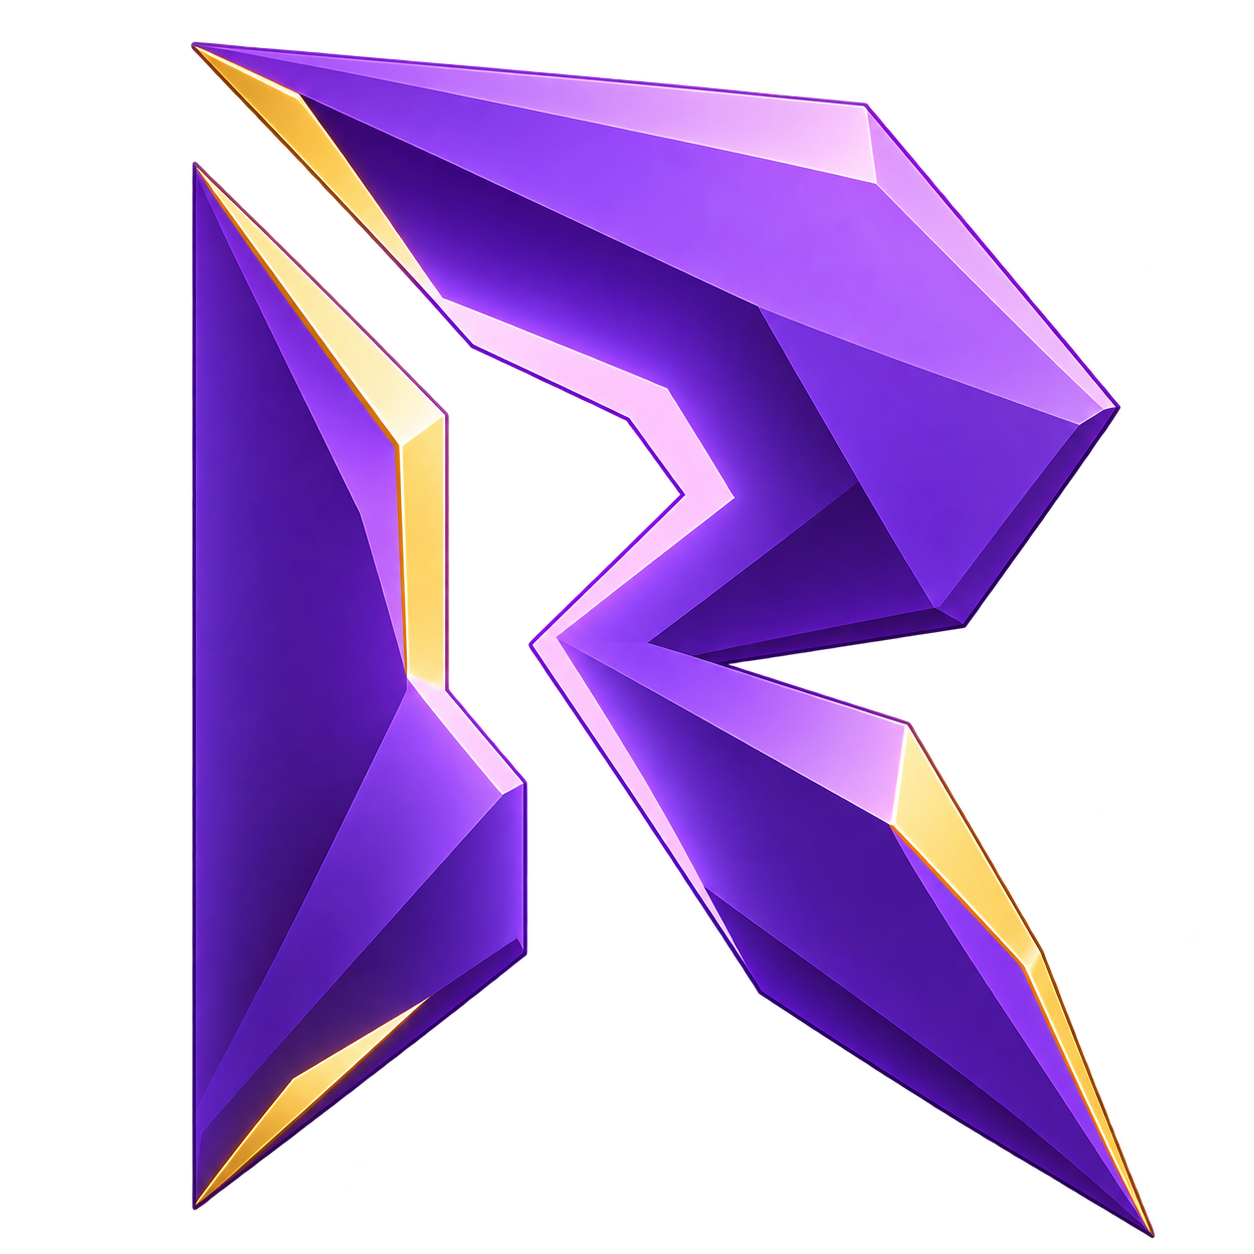
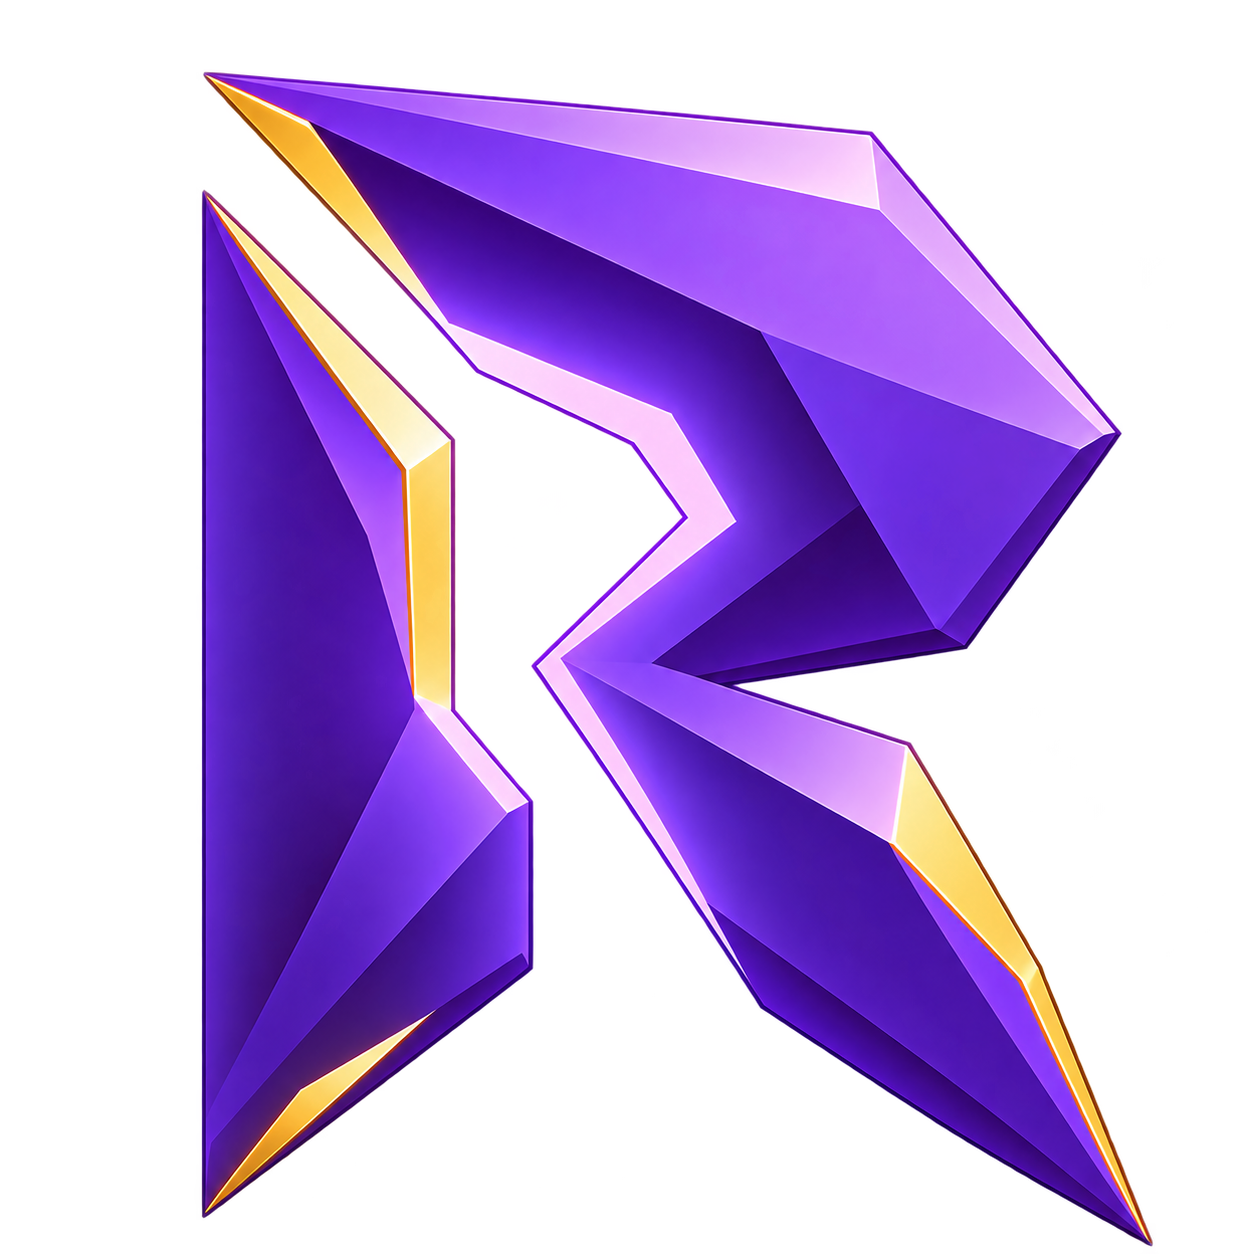
feat: edit notes inline and cancel drafts independently

diff --git a/src/renderer/src/App.tsx b/src/renderer/src/App.tsx
@@ -247,6 +247,7 @@ export default function App() {
   const [editing, setEditing] = useState<Note | null>(null),
     [deleting, setDeleting] = useState<number | null>(null)
   const [info, setInfo] = useState<{ databasePath: string; catalogVersion: string } | null>(null)
+  const [pendingNoteEdit, setPendingNoteEdit] = useState<Note | null>(null)
   const [pendingNavigation, setPendingNavigation] = useState<(() => void) | null>(null)
   const generation = useRef(0),
     editor = useRef<HTMLTextAreaElement>(null)
@@ -443,7 +444,14 @@ export default function App() {
   const pageSaveSupported = page === 'notebook' || (page === 'champions' && championDetailOpen)
   const pageDirty = noteDirty || counterDirty || (page === 'notebook' && loadoutDirty)
   async function savePage(): Promise<boolean> {
-    if (!pageSaveSupported || !ready || busy || pendingNavigation || pageSaveInFlight.current)
+    if (
+      !pageSaveSupported ||
+      !ready ||
+      busy ||
+      pendingNavigation ||
+      pendingNoteEdit ||
+      pageSaveInFlight.current
+    )
       return false
     const loadout = page === 'notebook' ? loadoutEditor.current?.draft() : undefined
     if (!noteDirty && !counterDirty && !loadout) return true
@@ -502,13 +510,17 @@ export default function App() {
     window.addEventListener('keydown', onKey)
     return () => window.removeEventListener('keydown', onKey)
   })
+  function startNoteEdit(note: Note) {
+    setDeleting(null)
+    setEditing(note)
+    setBody(note.body)
+    setCategory(note.category)
+    setTimeout(() => editor.current?.focus({ preventScroll: true }), 0)
+  }
   function edit(note: Note) {
-    navigate(() => {
-      setEditing(note)
-      setBody(note.body)
-      setCategory(note.category)
-      setTimeout(() => editor.current?.focus(), 0)
-    })
+    if (busy || editing?.id === note.id) return
+    if (noteDirty) setPendingNoteEdit(note)
+    else startNoteEdit(note)
   }
   async function changePool(operation: () => Promise<Result<PoolEntry[]>>) {
     if (busy) return
@@ -524,6 +536,69 @@ export default function App() {
   }
   const detailMatchups =
     championData?.matchups.filter((m) => detailRole === 'ALL' || m.role === detailRole) ?? []
+
+  const noteEditor = (
+    <form
+      className="note-editor"
+      onSubmit={(e) => {
+        e.preventDefault()
+        void savePage()
+      }}
+    >
+      <div className="editor-heading">
+        <label htmlFor="note-body">{editing ? 'メモを編集' : '新しいメモ'}</label>
+        <span>{body.length.toLocaleString()} / 10,000</span>
+      </div>
+      <textarea
+        id="note-body"
+        ref={editor}
+        value={body}
+        disabled={!ready || busy}
+        maxLength={10000}
+        placeholder={
+          page === 'champions'
+            ? '例：基本コンボ、スキルの使い方、練習したい操作。'
+            : '例：相手が主要スキルを使った後にトレードする。'
+        }
+        onChange={(e) => setBody(e.target.value)}
+        onKeyDown={(e) => {
+          if (!e.nativeEvent.isComposing && (e.ctrlKey || e.metaKey) && e.key === 'Enter') {
+            e.preventDefault()
+            e.currentTarget.form?.requestSubmit()
+          }
+        }}
+      />
+      <div className="editor-toolbar">
+        <select
+          aria-label="メモのカテゴリー"
+          value={category}
+          disabled={busy}
+          onChange={(e) => setCategory(e.target.value as Category)}
+        >
+          {CATEGORIES.map((c) => (
+            <option key={c}>{c}</option>
+          ))}
+        </select>
+        <span className="shortcut">Ctrl + Enter / Ctrl + S でページを保存</span>
+        {(editing || body.length > 0 || category !== 'General') && (
+          <button
+            type="button"
+            disabled={busy}
+            onClick={() => {
+              resetEditor()
+              setStatus('メモ入力をキャンセルしました')
+              setPageSaveStatus('')
+            }}
+          >
+            キャンセル
+          </button>
+        )}
+        <button className="primary" type="submit" disabled={!ready || busy || !body.trim()}>
+          {busy ? '保存中…' : editing ? '変更を保存' : '＋ メモを保存'}
+        </button>
+      </div>
+    </form>
+  )
 
   const notesPanel = (
     <section className="notes-panel panel" id="personal-notes">
@@ -602,7 +677,7 @@ export default function App() {
                   </button>
                 </div>
               </div>
-              <p className="note-body">{note.body}</p>
+              {editing?.id === note.id ? noteEditor : <p className="note-body">{note.body}</p>}
               {deleting === note.id && (
                 <div className="delete-confirm">
                   <span>このメモを削除しますか？</span>
@@ -631,58 +706,7 @@ export default function App() {
           ))
         )}
       </div>
-      <form
-        className="note-editor"
-        onSubmit={(e) => {
-          e.preventDefault()
-          void savePage()
-        }}
-      >
-        <div className="editor-heading">
-          <label htmlFor="note-body">{editing ? 'メモを編集' : '新しいメモ'}</label>
-          <span>{body.length.toLocaleString()} / 10,000</span>
-        </div>
-        <textarea
-          id="note-body"
-          ref={editor}
-          value={body}
-          disabled={!ready || busy}
-          maxLength={10000}
-          placeholder={
-            page === 'champions'
-              ? '例：基本コンボ、スキルの使い方、練習したい操作。'
-              : '例：相手が主要スキルを使った後にトレードする。'
-          }
-          onChange={(e) => setBody(e.target.value)}
-          onKeyDown={(e) => {
-            if (!e.nativeEvent.isComposing && (e.ctrlKey || e.metaKey) && e.key === 'Enter') {
-              e.preventDefault()
-              e.currentTarget.form?.requestSubmit()
-            }
-          }}
-        />
-        <div className="editor-toolbar">
-          <select
-            aria-label="メモのカテゴリー"
-            value={category}
-            disabled={busy}
-            onChange={(e) => setCategory(e.target.value as Category)}
-          >
-            {CATEGORIES.map((c) => (
-              <option key={c}>{c}</option>
-            ))}
-          </select>
-          <span className="shortcut">Ctrl + Enter / Ctrl + S でページを保存</span>
-          {editing && (
-            <button type="button" disabled={busy} onClick={() => navigate(() => {})}>
-              キャンセル
-            </button>
-          )}
-          <button className="primary" type="submit" disabled={!ready || busy || !body.trim()}>
-            {busy ? '保存中…' : editing ? '変更を保存' : '＋ メモを保存'}
-          </button>
-        </div>
-      </form>
+      {!editing && noteEditor}
     </section>
   )
 
@@ -1289,6 +1313,33 @@ export default function App() {
           )}
         </main>
       </div>
+      {pendingNoteEdit && (
+        <div className="modal-backdrop">
+          <div
+            className="modal panel"
+            role="alertdialog"
+            aria-modal="true"
+            aria-labelledby="note-switch-title"
+          >
+            <h2 id="note-switch-title">入力中のメモを破棄しますか？</h2>
+            <p>メモの入力だけを破棄して、選んだメモを編集します。</p>
+            <div>
+              <button autoFocus onClick={() => setPendingNoteEdit(null)}>
+                入力を続ける
+              </button>
+              <button
+                className="danger"
+                onClick={() => {
+                  startNoteEdit(pendingNoteEdit)
+                  setPendingNoteEdit(null)
+                }}
+              >
+                メモを破棄して編集
+              </button>
+            </div>
+          </div>
+        </div>
+      )}
       {pendingNavigation && (
         <div className="modal-backdrop">
           <div

diff --git a/tests/inline-notes.e2e.ts b/tests/inline-notes.e2e.ts
@@ -1,0 +1,80 @@
+import { test, expect, _electron as electron } from '@playwright/test'
+import { mkdirSync, mkdtempSync } from 'node:fs'
+import { resolve, join } from 'node:path'
+import { DatabaseSync } from 'node:sqlite'
+
+test('notes edit in place and cancel only their own draft on matchup and champion pages', async () => {
+  mkdirSync('.test-data', { recursive: true })
+  const folder = mkdtempSync(resolve('.test-data', 'inline-notes-'))
+  const env: Record<string, string> = Object.fromEntries(
+    Object.entries({ ...process.env, NOTEBOOK_TEST_DATA_DIR: folder }).filter(
+      (entry): entry is [string, string] => entry[1] !== undefined,
+    ),
+  )
+  delete env.ELECTRON_RUN_AS_NODE
+  const app = await electron.launch({ args: [resolve('.')], env })
+  try {
+    const page = await app.firstWindow()
+    await page.context().setOffline(true)
+    for (const scope of ['matchup', 'champion']) {
+      if (scope === 'champion') {
+        await page.getByRole('button', { name: /Champions/ }).click()
+        await page.getByRole('button', { name: 'Dariusの詳細を開く', exact: true }).click()
+      }
+      const notes = page.locator('#personal-notes')
+      const otherDraft =
+        scope === 'matchup'
+          ? page.getByLabel('ビルドの補足')
+          : page.getByLabel('Darius対策の内容', { exact: true })
+      await notes.getByLabel('新しいメモ', { exact: true }).fill('元のメモ')
+      await notes.getByRole('button', { name: '＋ メモを保存', exact: true }).click()
+      const card = notes.locator('.note-card').first()
+      await expect(card.locator('.note-body')).toHaveText('元のメモ')
+      await otherDraft.fill('他の欄の未保存入力')
+      await notes.getByLabel('新しいメモ', { exact: true }).fill('キャンセルする新規メモ')
+      await notes.getByRole('button', { name: 'キャンセル', exact: true }).click()
+      await expect(notes.getByLabel('新しいメモ', { exact: true })).toHaveValue('')
+      await expect(otherDraft).toHaveValue('他の欄の未保存入力')
+      await card.getByRole('button', { name: /メモ\d+を編集/ }).click()
+      await expect(page.getByRole('alertdialog')).toHaveCount(0)
+      await expect(card.getByLabel('メモを編集', { exact: true })).toHaveValue('元のメモ')
+      await expect(notes.locator(':scope > .note-editor')).toHaveCount(0)
+      await card.getByLabel('メモを編集', { exact: true }).fill('取り消す編集')
+      await card.getByRole('button', { name: 'キャンセル', exact: true }).click()
+      await expect(card.locator('.note-body')).toHaveText('元のメモ')
+      await expect(otherDraft).toHaveValue('他の欄の未保存入力')
+      await notes.getByLabel('新しいメモ', { exact: true }).fill('切り替え前の入力')
+      await card.getByRole('button', { name: /メモ\d+を編集/ }).click()
+      await page.getByRole('button', { name: '入力を続ける', exact: true }).click()
+      await expect(notes.getByLabel('新しいメモ', { exact: true })).toHaveValue('切り替え前の入力')
+      await card.getByRole('button', { name: /メモ\d+を編集/ }).click()
+      await page.getByRole('button', { name: 'メモを破棄して編集', exact: true }).click()
+      await expect(otherDraft).toHaveValue('他の欄の未保存入力')
+      await card.getByLabel('メモを編集', { exact: true }).fill('その場で編集して保存')
+      const lock = new DatabaseSync(join(folder, 'notebook.sqlite'))
+      lock.exec('BEGIN IMMEDIATE')
+      try {
+        await card.getByRole('button', { name: '変更を保存', exact: true }).click()
+        await expect(page.getByRole('alert')).toBeVisible({ timeout: 10000 })
+        await expect(card.getByLabel('メモを編集', { exact: true })).toHaveValue(
+          'その場で編集して保存',
+        )
+      } finally {
+        lock.exec('ROLLBACK')
+        lock.close()
+      }
+      await page.keyboard.press('Control+s')
+      await expect(card.locator('.note-body')).toHaveText('その場で編集して保存')
+      await expect(notes.locator('.note-card')).toHaveCount(1)
+      await expect(
+        page.getByRole('button', { name: 'ページの変更を保存', exact: true }),
+      ).toBeDisabled()
+      await card.getByRole('button', { name: /メモ\d+を編集/ }).click()
+      await card.scrollIntoViewIfNeeded()
+      await page.screenshot({ path: `test-results/inline-${scope}.png` })
+      await card.getByRole('button', { name: 'キャンセル', exact: true }).click()
+    }
+  } finally {
+    await app.close()
+  }
+})

diff --git a/src/renderer/src/styles.css b/src/renderer/src/styles.css
@@ -804,6 +804,12 @@ h1 {
   background: #141820;
   border-top: 1px solid #2b303b;
 }
+.note-card > .note-editor {
+  margin-top: 12px;
+  padding: 0;
+  border: 0;
+  background: transparent;
+}
 .editor-heading {
   display: flex;
   align-items: center;

diff --git a/docs/handoff.md b/docs/handoff.md
@@ -1,5 +1,14 @@
 # 次の開発への引き継ぎ
 
+## 最新：メモをその場で編集・キャンセル、アイコン位置（2026-09-29）
+
+- Match up / Champion詳細の既存メモは元のカード内で直接編集する。編集中は下部の新規入力欄を非表示とし、保存・キャンセル後に戻す。
+- 新規入力にもキャンセルボタンを追加。メモ本文・カテゴリーだけをリセットし、ビルド・ルーン・共通対策の下書きは保持。入力中に別メモへ編集を切り替える場合も、メモだけを破棄する確認を表示する。
+- ページ単位の一括保存、Ctrl+S / Ctrl+Enter、保存失敗時の入力保持は継続。専用E2Eで両ページのインライン位置・キャンセル・編集切替・DBロック後の再試行を確認。
+- 透過Rアイコンをわずかに下寄せ。build/icon.pngとpublic/icon.pngを更新。1254角、alpha>128の上下端は72〜1245、角は透明。内蔵imagegenを使用。採用プロンプトはdocs/icon-alignment.md。
+- 個人DB・Comfort Picksにはアクセスせず、再取り込み・初期データ化はしていない。
+- 検証：テスト31件、E2E全17件、lint・型チェック・build・dist・diff check成功。E2E後はアイコン画像のみ追加更新し、配布EXEから抽出したアイコンと同梱PNGの一致を確認。インストーラー・SHA256SUMSを更新。再インストール・push・公開はしていない。
+
 ## 最新：ページ単位の保存（2026-09-28）
 
 - Match upは編集中のメモ・ビルド・ルーン、Champion詳細は編集中のメモ・共通対策を「ページの変更を保存」で一括保存。上部バーを固定し、Ctrl+Sにも対応。既存の各欄の保存ボタンとCtrl+Enterもページ全体を保存する。

diff --git a/README.md b/README.md
@@ -67,7 +67,7 @@ Match up左側の「おすすめピック」は折りたたみ可能で、Comfor
 チャンピオン検索はひらがな・カタカナ・全角英字に対応。Match upの選択欄では↑↓で候補を選び、Enterで決定、Escで閉じられます。Libraryの検索・レーン・スクロール位置は詳細から戻っても保持します（アプリ終了まで）。カウンター候補の「このピックでメモを開く」から、その候補×相手×レーンの対面ページへ移動できます。
 
 1. Match up上部で自分のチャンピオン・相手・Roleを選択する。
-2. メモやビルド・ルーンを編集し、上部の「ページの変更を保存」でまとめて保存する。Ctrl + S、メモ欄のCtrl + Enterでもページ全体を保存できる。
+2. メモやビルド・ルーンを編集し、上部の「ページの変更を保存」でまとめて保存する。Ctrl + S、メモ欄のCtrl + Enterでもページ全体を保存できる。既存メモは「編集」でそのカード内を直接編集する。「キャンセル」は新規入力・既存メモの編集だけを取り消し、他の欄の入力を残す。Champion詳細も同じ操作。
 3. ノートの「編集」「削除」から管理する。
 4. 保存したメモはSearchやChampionsの対面メモ一覧からも開けます。
 

diff --git a/docs/icon-alignment.md b/docs/icon-alignment.md
@@ -1,0 +1,7 @@
+# アイコン位置の微調整（2026-09-29）
+
+内蔵imagegenで既存の透過R画像を編集し、`build/icon.png`と`public/icon.png`へ反映。配布アイコンと画面内ロゴの両方に使用する。採用した指示文：
+
+> Edit target is the existing R app icon. Subtle optical alignment correction: reposition the icon slightly downward on a SQUARE transparent canvas. The FULL R must fit without ANY clipping. BOTH lower pointed tips MUST be complete and surrounded by transparent pixels. Mandatory transparent bottom margin 3% canvas height; top margin 6% canvas height. Thus the entire R occupies 91% of canvas height. Keep the original exact R design, purple and gold color, faceted shapes, and proportions; preserve original horizontal centering. Do not add anything, no background, no drop shadow. This is the same large R icon with a tiny downward optical alignment correction; do not redesign. Return genuinely transparent PNG.
+
+出力は指示値どおりの厳密な平行移動ではない。実測は1254×1254、alpha>128の上下端が72〜1245。透過と先端の余白を確認した。
